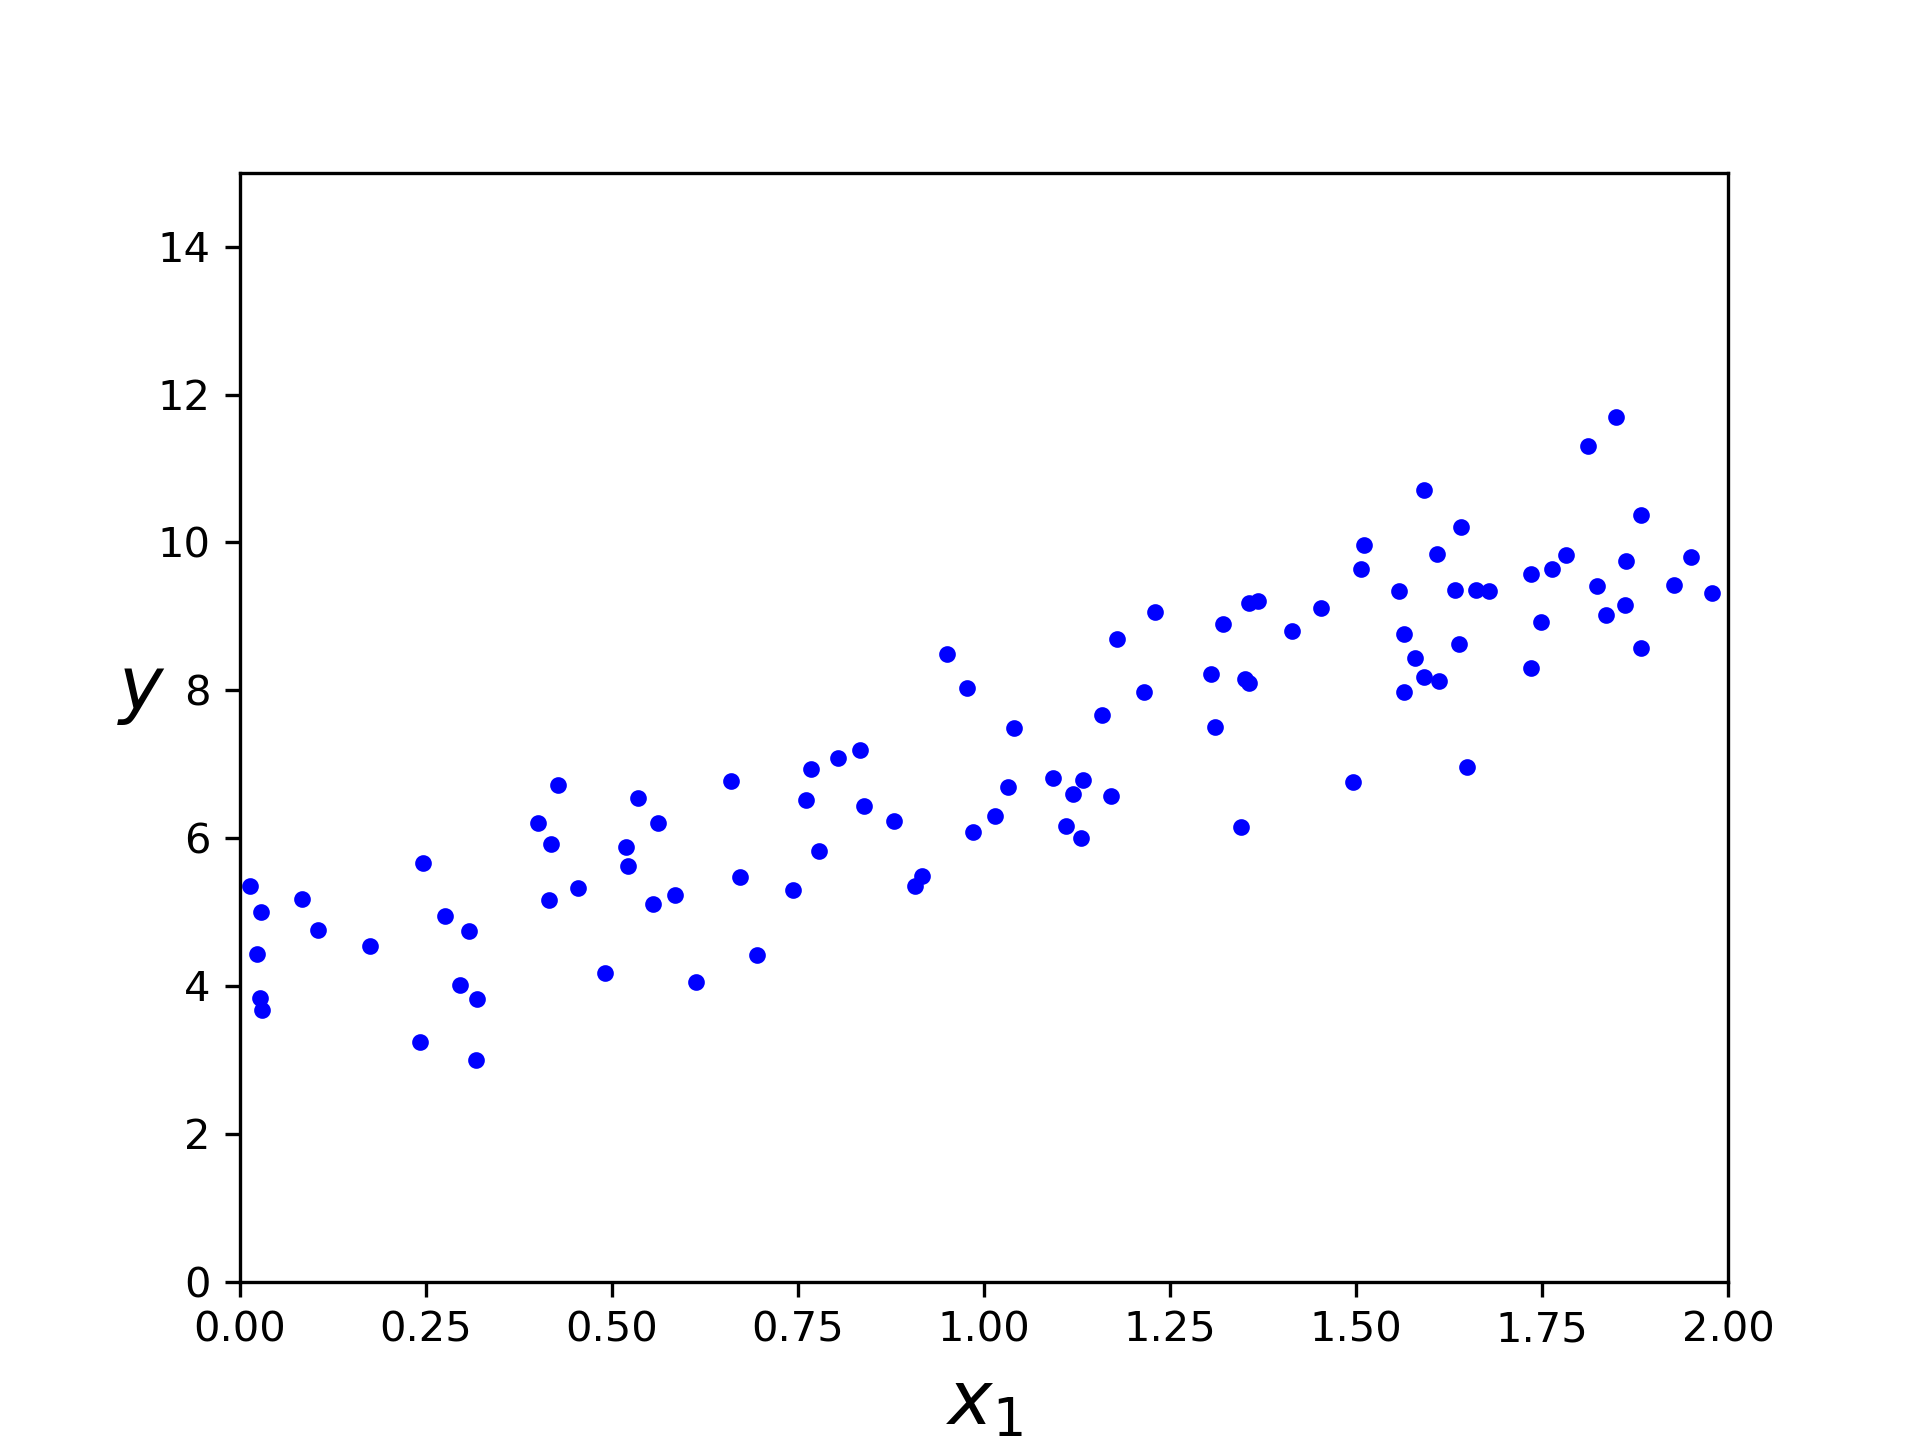
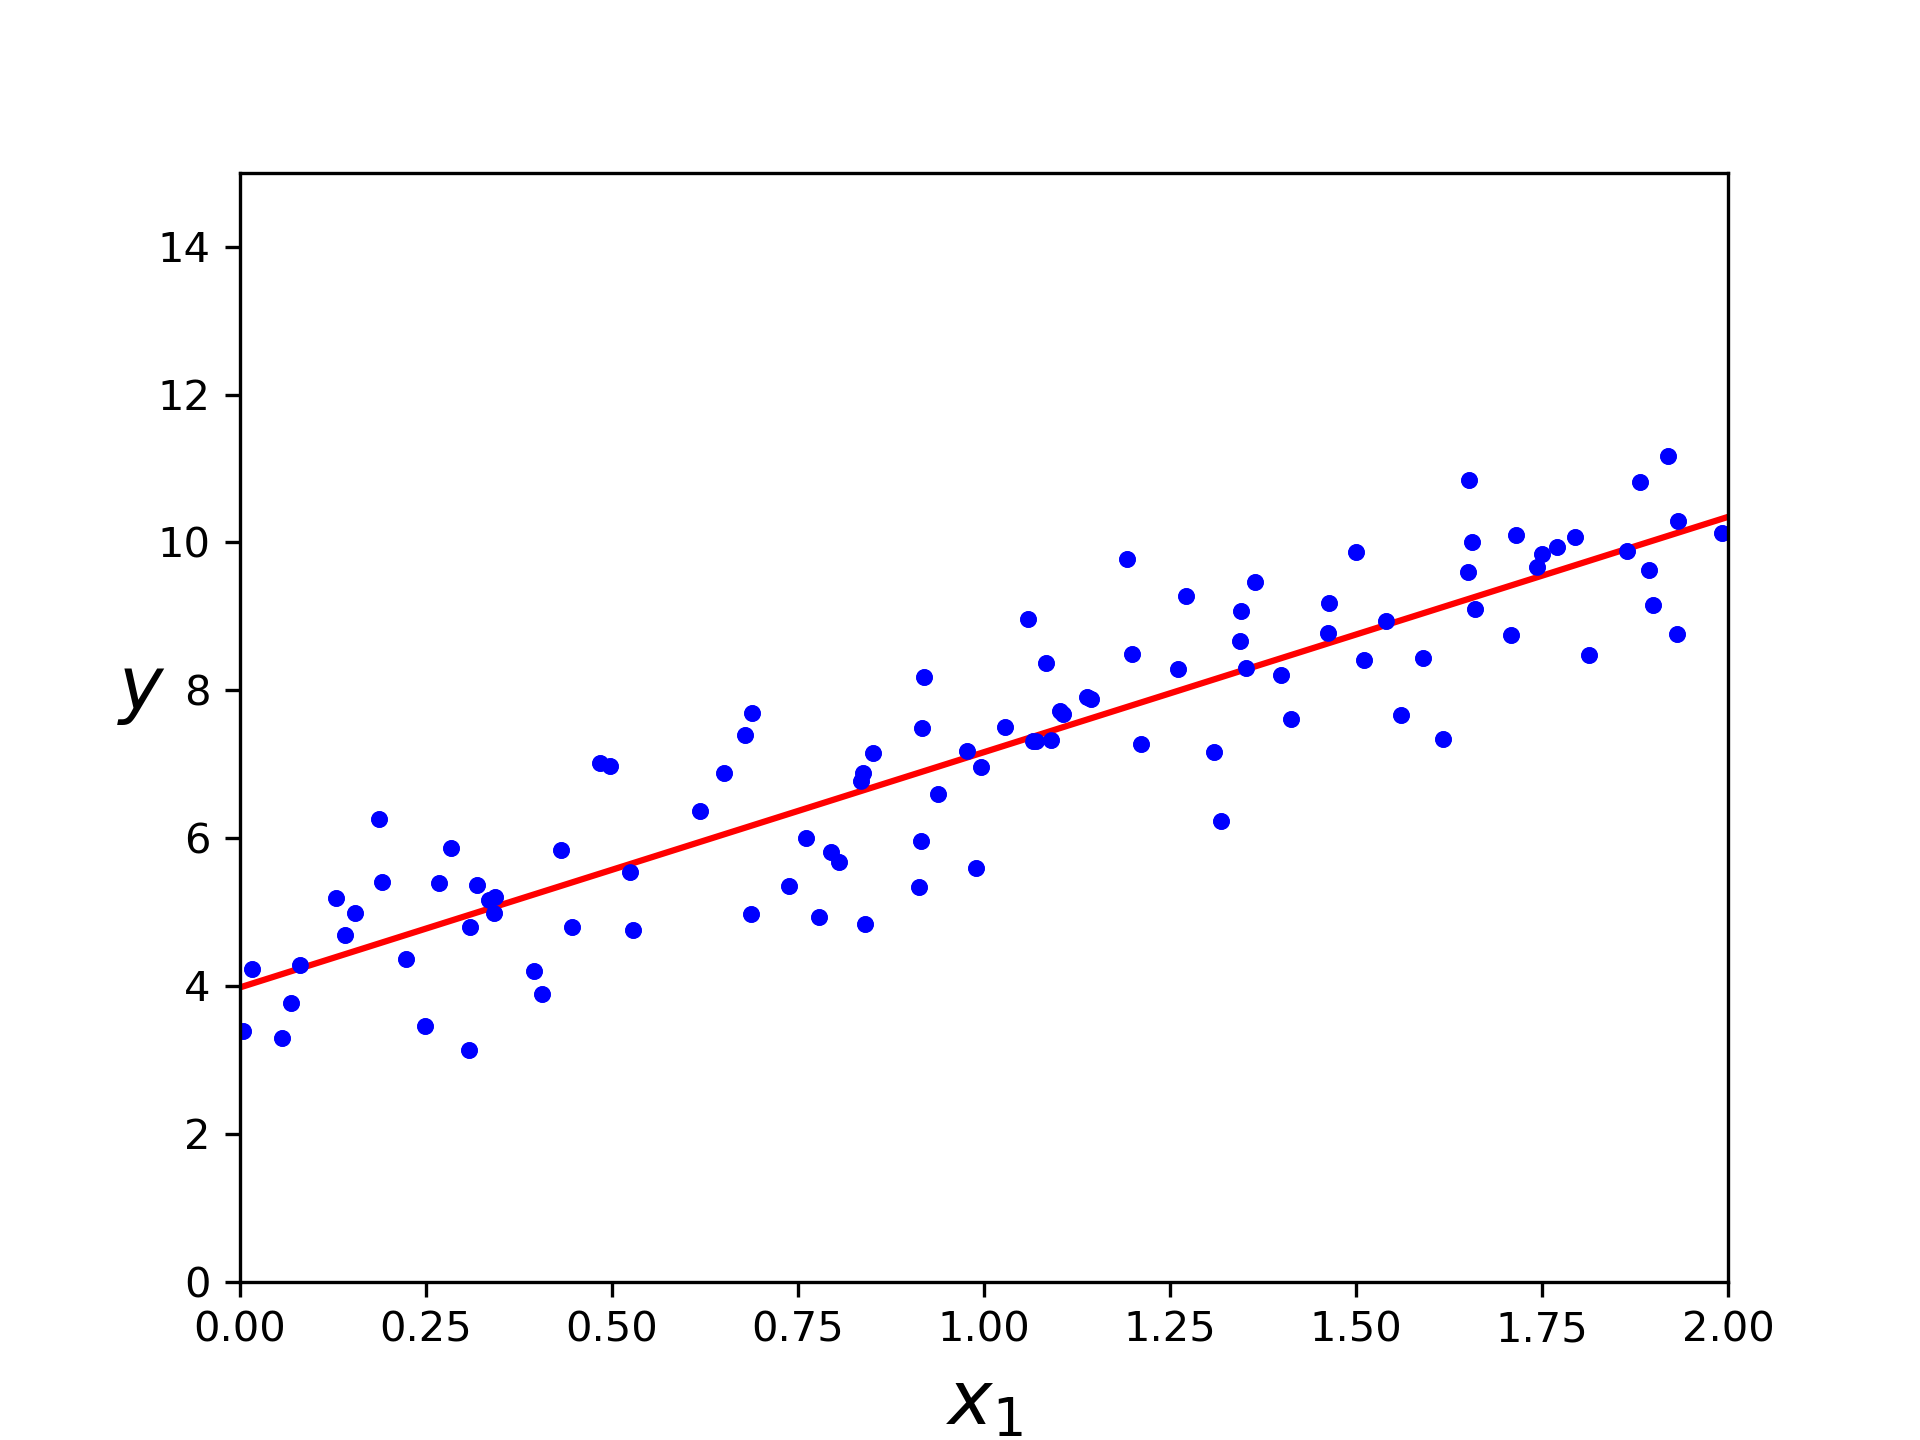
gradient descent stuff

diff --git a/4ch/regression.py b/4ch/regression.py
@@ -9,6 +9,76 @@ from sklearn.linear_model import LinearRegression
 PNG_PATH = '/home/ubuntu/workspace/hands_on_ml/png/4ch/'
 
 
+def stoch_grad_desc():
+    X = 2 * np.random.rand(100, 1)
+    y = 4 + 3 * X + np.random.randn(100, 1)
+    
+    X_b = np.c_[np.ones((100, 1)), X]  # add x0 = 1 to each instance
+    X_new = np.array([[0], [2]])
+    X_new_b = np.c_[np.ones((2, 1)), X_new]  # add x0 = 1 to each instance
+    
+    theta_path_sgd = []
+    m = len(X_b)
+    np.random.seed(42)
+    
+    n_epochs = 50
+    t0, t1 = 5, 50  # learning schedule hyperparameters
+    
+    def learning_schedule(t):
+        return t0 / (t + t1)
+    
+    theta = np.random.randn(2,1)  # random initialization
+
+    for epoch in range(n_epochs):
+        for i in range(m):
+            if epoch == 0 and i < 20:                    # not shown in the book
+                y_predict = X_new_b.dot(theta)           # not shown
+                style = "b-" if i > 0 else "r--"         # not shown
+                plt.plot(X_new, y_predict, style)        # not shown
+            random_index = np.random.randint(m)
+            xi = X_b[random_index:random_index+1]
+            yi = y[random_index:random_index+1]
+            gradients = 2 * xi.T.dot(xi.dot(theta) - yi)
+            eta = learning_schedule(epoch * m + i)
+            theta = theta - eta * gradients
+            theta_path_sgd.append(theta)                 # not shown
+    
+    plt.plot(X, y, "b.")                                 # not shown
+    plt.xlabel("$x_1$", fontsize=18)                     # not shown
+    plt.ylabel("$y$", rotation=0, fontsize=18)           # not shown
+    plt.axis([0, 2, 0, 15])                              # not shown
+    plt.savefig(PNG_PATH + "sgd_plot.png", dpi=300)      # not shown
+    plt.close()                                          # not shown
+
+
+def grad_desc():
+    X = 2 * np.random.rand(100, 1)
+    y = 4 + 3 * X + np.random.randn(100, 1)
+    X_b = np.c_[np.ones((100, 1)), X]  # add x0 = 1 to each instance
+    
+    eta = 0.1
+    n_iterations = 1000
+    m = 100
+    theta = np.random.randn(2,1)
+    
+    for iteration in range(n_iterations):
+        gradients = 2/m * X_b.T.dot(X_b.dot(theta) - y)
+        theta = theta - eta * gradients
+    print(theta)
+    
+    np.random.seed(42)
+    theta = np.random.randn(2,1)  # random initialization
+    theta_path_bgd = []
+
+    plt.figure(figsize=(10,4))
+    plt.subplot(131); plot_gradient_descent(theta, 0.02, X, y)
+    plt.ylabel("$y$", rotation=0, fontsize=18)
+    plt.subplot(132); plot_gradient_descent(theta, 0.1, X, y, theta_path=theta_path_bgd)
+    plt.subplot(133); plot_gradient_descent(theta, 0.5, X, y)
+    plt.savefig(PNG_PATH + "gradient_descent_plot.png", dpi=300)
+    plt.close()
+
+
 def lin_reg():
     X = 2 * np.random.rand(100, 1)
     y = 4 + 3 * X + np.random.randn(100, 1)
@@ -32,14 +102,38 @@ def lin_reg():
     plt.savefig(PNG_PATH + "generated_data_plot.png", tight_layout=False, dpi=300)
     plt.close()
     
-    
     lin_reg = LinearRegression()
     lin_reg.fit(X, y)
     print(lin_reg.intercept_, lin_reg.coef_)
-    (array([4.21509616]), array([[2.77011339]]))
     print(lin_reg.predict(X_new))
+
+
+def plot_gradient_descent(theta, eta, X, y, theta_path=None):
+    X_b = np.c_[np.ones((100, 1)), X]  # add x0 = 1 to each instance
+    X_new = np.array([[0], [2]])
+    X_new_b = np.c_[np.ones((2, 1)), X_new]  # add x0 = 1 to each instance
+    m = len(X_b)
+    plt.plot(X, y, "b.")
+    n_iterations = 1000
+    for iteration in range(n_iterations):
+        if iteration < 10:
+            y_predict = X_new_b.dot(theta)
+            style = "b-" if iteration > 0 else "r--"
+            plt.plot(X_new, y_predict, style)
+        gradients = 2/m * X_b.T.dot(X_b.dot(theta) - y)
+        theta = theta - eta * gradients
+        if theta_path is not None:
+            theta_path.append(theta)
+    plt.xlabel("$x_1$", fontsize=18)
+    plt.axis([0, 2, 0, 15])
+    plt.title(r"$\eta = {}$".format(eta), fontsize=16)
+
+
+
 
 
 
 if __name__ == '__main__':
-    lin_reg()
+    # lin_reg()
+    # grad_desc()
+    stoch_grad_desc()
